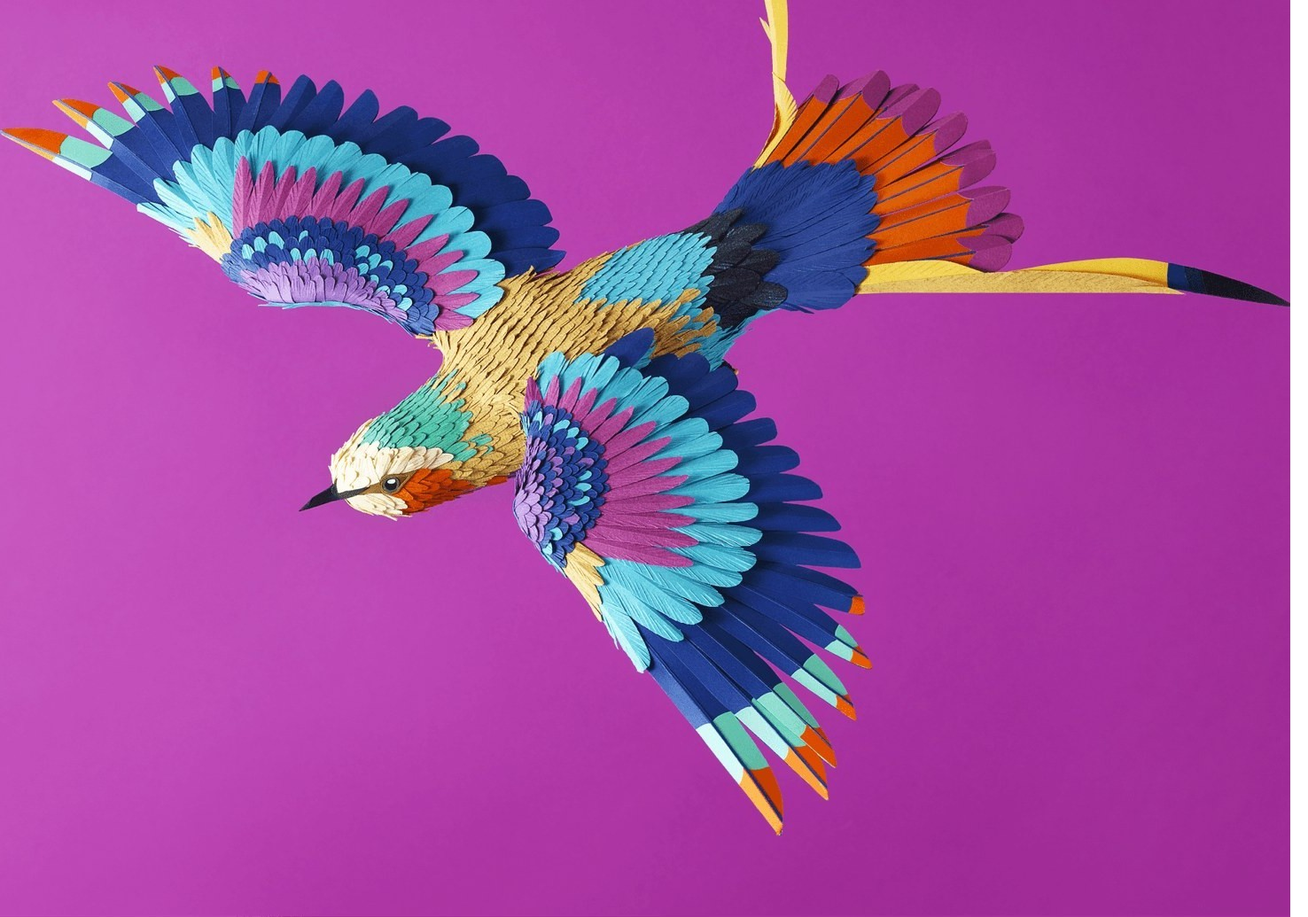
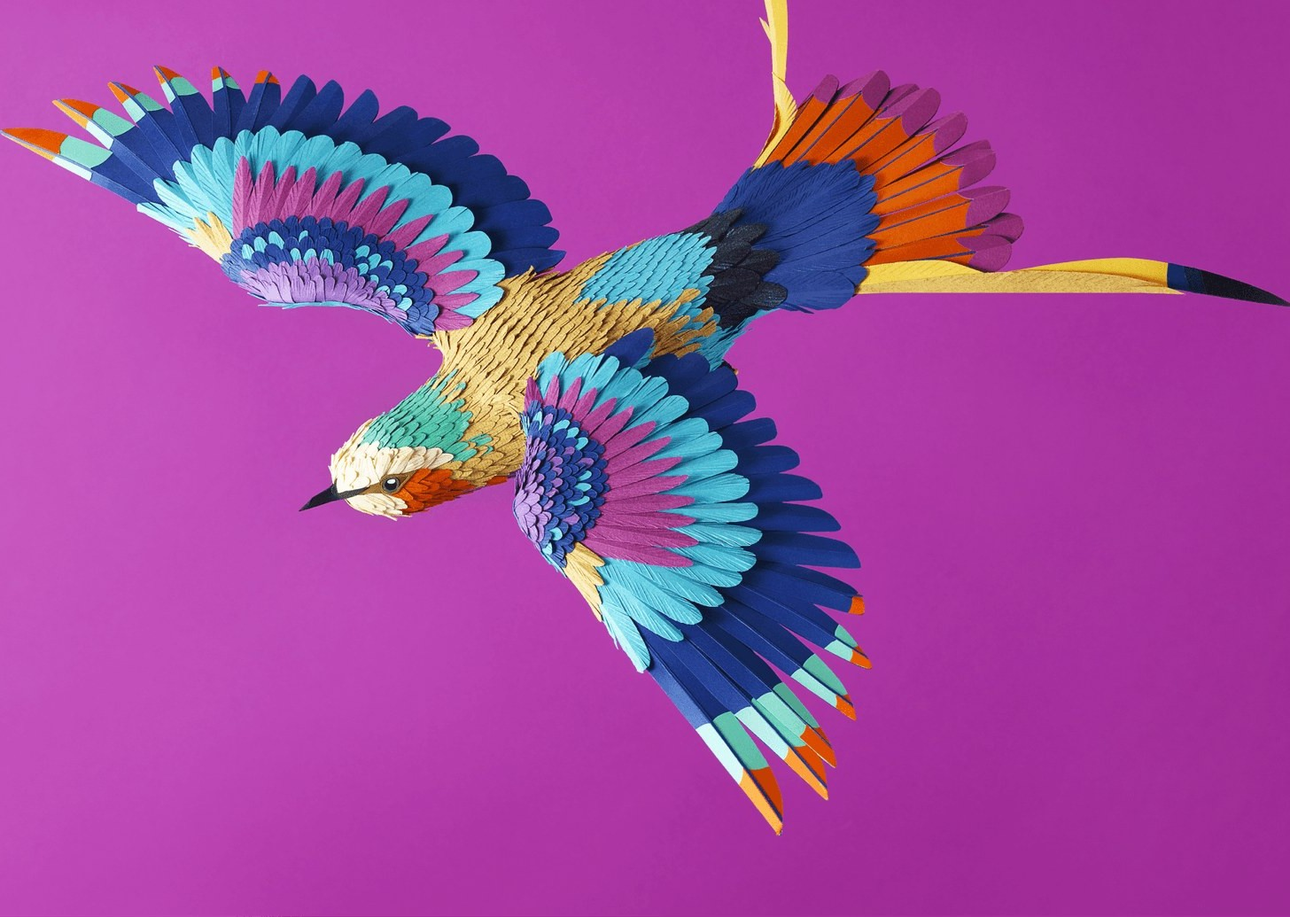
Pages projets : images remises comme avant

Changed region(s): [[0.0309, 0.0, 1.0, 1.0]]

diff --git a/en/projects.html b/en/projects.html
@@ -26,11 +26,11 @@
   <a class="pj rv" href="p-klassic-eyewear" style="--c:#36557a" data-rub="Animation et film"><span class="pj__im"><img src="../img/projets/klassic-eyewear/00_m.jpg" srcset="../img/projets/klassic-eyewear/00_t.jpg 292w, ../img/projets/klassic-eyewear/00_m.jpg 562w, ../img/projets/klassic-eyewear/00.jpg 900w" sizes="(max-width:760px) 100vw, 700px" width="900" height="1600" alt="Klassic Eyewear, Shape of Joy" loading="lazy" decoding="async"></span><span class="pj__t"><b>Klassic Eyewear, Shape of Joy</b><span class="pj__s">Apollo Thomas · Klassic Eyewear</span><span class="mi">Animation and film</span></span></a>
   <a class="pj rv" href="p-burberry-beauty" style="--c:#899dbe" data-rub="Campagnes"><span class="pj__im"><img src="../img/projets/burberry-beauty/01_m.jpg" srcset="../img/projets/burberry-beauty/01_t.jpg 520w, ../img/projets/burberry-beauty/01_m.jpg 1000w, ../img/projets/burberry-beauty/01.jpg 1252w" sizes="(max-width:760px) 100vw, 700px" width="1252" height="1252" alt="Burberry Beauty, Goddess et Hero" loading="lazy" decoding="async"></span><span class="pj__t"><b>Burberry Beauty, Goddess et Hero</b><span class="pj__s">Mathilde Loubes · Burberry Beauty</span><span class="mi">Campaigns</span></span></a>
   <a class="pj rv" href="p-chanel-coco-crush" style="--c:#fee232" data-rub="Animation et film"><span class="pj__im"><img src="../img/projets/chanel-coco-crush/00_m.jpg" srcset="../img/projets/chanel-coco-crush/00_t.jpg 520w, ../img/projets/chanel-coco-crush/00_m.jpg 600w, ../img/projets/chanel-coco-crush/00.jpg 600w" sizes="(max-width:760px) 100vw, 700px" width="600" height="338" alt="Chanel, Coco Crush" loading="lazy" decoding="async"></span><span class="pj__t"><b>Chanel, Coco Crush</b><span class="pj__s">Clément Soulmagnon · Chanel</span><span class="mi">Animation and film</span></span></a>
-  <a class="pj rv" href="p-contes-des-fetes-2023" style="--c:#bf4d82" data-rub="Animation et film"><span class="pj__im"><img src="../img/projets/contes-des-fetes-2023/00_m.jpg" srcset="../img/projets/contes-des-fetes-2023/00_t.jpg 520w, ../img/projets/contes-des-fetes-2023/00_m.jpg 1000w, ../img/projets/contes-des-fetes-2023/00.jpg 1476w" sizes="(max-width:760px) 100vw, 700px" width="1476" height="1035" alt="Trois contes pour les fêtes 2023" loading="lazy" decoding="async"></span><span class="pj__t"><b>Trois contes pour les fêtes 2023</b><span class="pj__s">Lila Poppins · Eddy</span><span class="mi">Animation and film</span></span></a>
+  <a class="pj rv" href="p-contes-des-fetes-2023" style="--c:#bf4d82" data-rub="Animation et film"><span class="pj__im"><img src="../img/projets/contes-des-fetes-2023/00_m.jpg" srcset="../img/projets/contes-des-fetes-2023/00_t.jpg 520w, ../img/projets/contes-des-fetes-2023/00_m.jpg 1000w, ../img/projets/contes-des-fetes-2023/00.jpg 1447w" sizes="(max-width:760px) 100vw, 700px" width="1447" height="1035" alt="Trois contes pour les fêtes 2023" loading="lazy" decoding="async"></span><span class="pj__t"><b>Trois contes pour les fêtes 2023</b><span class="pj__s">Lila Poppins · Eddy</span><span class="mi">Animation and film</span></span></a>
   <a class="pj rv" href="p-apple-store-champs-elysees" style="--c:#fee232" data-rub="Scénographie et installations"><span class="pj__im"><img src="../img/projets/apple-store-champs-elysees/00_m.jpg" srcset="../img/projets/apple-store-champs-elysees/00_t.jpg 346w, ../img/projets/apple-store-champs-elysees/00_m.jpg 665w, ../img/projets/apple-store-champs-elysees/00.jpg 1064w" sizes="(max-width:760px) 100vw, 700px" width="1064" height="1600" alt="Apple Store Champs-Élysées" loading="lazy" decoding="async"></span><span class="pj__t"><b>Apple Store Champs-Élysées</b><span class="pj__s">Clément Soulmagnon · Apple</span><span class="mi">Set design and installations</span></span></a>
   <a class="pj rv" href="p-coty-infinity" style="--c:#bf4d82" data-rub="Scénographie et installations"><span class="pj__im"><img src="../img/projets/coty-infinity/00_m.jpg" srcset="../img/projets/coty-infinity/00_t.jpg 520w, ../img/projets/coty-infinity/00_m.jpg 1000w, ../img/projets/coty-infinity/00.jpg 1476w" sizes="(max-width:760px) 100vw, 700px" width="1476" height="1035" alt="Coty, Infinity" loading="lazy" decoding="async"></span><span class="pj__t"><b>Coty, Infinity</b><span class="pj__s">Lila Poppins · Coty</span><span class="mi">Set design and installations</span></span></a>
   <a class="pj rv" href="p-hermes-china-world" style="--c:#fee232" data-rub="Animation et film"><span class="pj__im"><img src="../img/projets/hermes-china-world/00_m.jpg" srcset="../img/projets/hermes-china-world/00_t.jpg 520w, ../img/projets/hermes-china-world/00_m.jpg 1000w, ../img/projets/hermes-china-world/00.jpg 1280w" sizes="(max-width:760px) 100vw, 700px" width="1280" height="720" alt="Hermès, China World" loading="lazy" decoding="async"></span><span class="pj__t"><b>Hermès, China World</b><span class="pj__s">Clément Soulmagnon · Hermès</span><span class="mi">Animation and film</span></span></a>
-  <a class="pj rv" href="p-aeroports-de-paris-la-parade" style="--c:#bf4d82" data-rub="Scénographie et installations"><span class="pj__im"><img src="../img/projets/aeroports-de-paris-la-parade/00_m.jpg" srcset="../img/projets/aeroports-de-paris-la-parade/00_t.jpg 520w, ../img/projets/aeroports-de-paris-la-parade/00_m.jpg 1000w, ../img/projets/aeroports-de-paris-la-parade/00.jpg 1476w" sizes="(max-width:760px) 100vw, 700px" width="1476" height="1035" alt="Aéroports de Paris, La Parade" loading="lazy" decoding="async"></span><span class="pj__t"><b>Aéroports de Paris, La Parade</b><span class="pj__s">Lila Poppins · Aéroports de Paris</span><span class="mi">Set design and installations</span></span></a>
+  <a class="pj rv" href="p-aeroports-de-paris-la-parade" style="--c:#bf4d82" data-rub="Scénographie et installations"><span class="pj__im"><img src="../img/projets/aeroports-de-paris-la-parade/00_m.jpg" srcset="../img/projets/aeroports-de-paris-la-parade/00_t.jpg 520w, ../img/projets/aeroports-de-paris-la-parade/00_m.jpg 1000w, ../img/projets/aeroports-de-paris-la-parade/00.jpg 1456w" sizes="(max-width:760px) 100vw, 700px" width="1456" height="1035" alt="Aéroports de Paris, La Parade" loading="lazy" decoding="async"></span><span class="pj__t"><b>Aéroports de Paris, La Parade</b><span class="pj__s">Lila Poppins · Aéroports de Paris</span><span class="mi">Set design and installations</span></span></a>
   <a class="pj rv" href="p-marie-claire-vintage-love" style="--c:#bf4d82" data-rub="Édition et presse"><span class="pj__im"><img src="../img/projets/marie-claire-vintage-love/00_m.jpg" srcset="../img/projets/marie-claire-vintage-love/00_t.jpg 520w, ../img/projets/marie-claire-vintage-love/00_m.jpg 1000w, ../img/projets/marie-claire-vintage-love/00.jpg 1476w" sizes="(max-width:760px) 100vw, 700px" width="1476" height="1035" alt="Marie Claire, Vintage love" loading="lazy" decoding="async"></span><span class="pj__t"><b>Marie Claire, Vintage love</b><span class="pj__s">Lila Poppins · Marie Claire</span><span class="mi">Publishing and press</span></span></a>
   <a class="pj rv" href="p-fete-du-cinema-d-animation" style="--c:#6c94a0" data-rub="Affiches et prints"><span class="pj__im"><img src="../img/projets/fete-du-cinema-d-animation/00_m.jpg" srcset="../img/projets/fete-du-cinema-d-animation/00_t.jpg 348w, ../img/projets/fete-du-cinema-d-animation/00_m.jpg 669w, ../img/projets/fete-du-cinema-d-animation/00.jpg 1071w" sizes="(max-width:760px) 100vw, 700px" width="1071" height="1600" alt="Affiche de la 25e Fête du cinéma d'animation" loading="lazy" decoding="async"></span><span class="pj__t"><b>Affiche de la 25e Fête du cinéma d'animation</b><span class="pj__s">Chloé Farr · AFCA</span><span class="mi">Posters and prints</span></span></a>
  </div>

diff --git a/projects.html b/projects.html
@@ -26,11 +26,11 @@
   <a class="pj rv" href="p-klassic-eyewear" style="--c:#36557a" data-rub="Animation et film"><span class="pj__im"><img src="img/projets/klassic-eyewear/00_m.jpg" srcset="img/projets/klassic-eyewear/00_t.jpg 292w, img/projets/klassic-eyewear/00_m.jpg 562w, img/projets/klassic-eyewear/00.jpg 900w" sizes="(max-width:760px) 100vw, 700px" width="900" height="1600" alt="Klassic Eyewear, Shape of Joy" loading="lazy" decoding="async"></span><span class="pj__t"><b>Klassic Eyewear, Shape of Joy</b><span class="pj__s">Apollo Thomas · Klassic Eyewear</span><span class="mi">Animation et film</span></span></a>
   <a class="pj rv" href="p-burberry-beauty" style="--c:#899dbe" data-rub="Campagnes"><span class="pj__im"><img src="img/projets/burberry-beauty/01_m.jpg" srcset="img/projets/burberry-beauty/01_t.jpg 520w, img/projets/burberry-beauty/01_m.jpg 1000w, img/projets/burberry-beauty/01.jpg 1252w" sizes="(max-width:760px) 100vw, 700px" width="1252" height="1252" alt="Burberry Beauty, Goddess et Hero" loading="lazy" decoding="async"></span><span class="pj__t"><b>Burberry Beauty, Goddess et Hero</b><span class="pj__s">Mathilde Loubes · Burberry Beauty</span><span class="mi">Campagnes</span></span></a>
   <a class="pj rv" href="p-chanel-coco-crush" style="--c:#fee232" data-rub="Animation et film"><span class="pj__im"><img src="img/projets/chanel-coco-crush/00_m.jpg" srcset="img/projets/chanel-coco-crush/00_t.jpg 520w, img/projets/chanel-coco-crush/00_m.jpg 600w, img/projets/chanel-coco-crush/00.jpg 600w" sizes="(max-width:760px) 100vw, 700px" width="600" height="338" alt="Chanel, Coco Crush" loading="lazy" decoding="async"></span><span class="pj__t"><b>Chanel, Coco Crush</b><span class="pj__s">Clément Soulmagnon · Chanel</span><span class="mi">Animation et film</span></span></a>
-  <a class="pj rv" href="p-contes-des-fetes-2023" style="--c:#bf4d82" data-rub="Animation et film"><span class="pj__im"><img src="img/projets/contes-des-fetes-2023/00_m.jpg" srcset="img/projets/contes-des-fetes-2023/00_t.jpg 520w, img/projets/contes-des-fetes-2023/00_m.jpg 1000w, img/projets/contes-des-fetes-2023/00.jpg 1476w" sizes="(max-width:760px) 100vw, 700px" width="1476" height="1035" alt="Trois contes pour les fêtes 2023" loading="lazy" decoding="async"></span><span class="pj__t"><b>Trois contes pour les fêtes 2023</b><span class="pj__s">Lila Poppins · Eddy</span><span class="mi">Animation et film</span></span></a>
+  <a class="pj rv" href="p-contes-des-fetes-2023" style="--c:#bf4d82" data-rub="Animation et film"><span class="pj__im"><img src="img/projets/contes-des-fetes-2023/00_m.jpg" srcset="img/projets/contes-des-fetes-2023/00_t.jpg 520w, img/projets/contes-des-fetes-2023/00_m.jpg 1000w, img/projets/contes-des-fetes-2023/00.jpg 1447w" sizes="(max-width:760px) 100vw, 700px" width="1447" height="1035" alt="Trois contes pour les fêtes 2023" loading="lazy" decoding="async"></span><span class="pj__t"><b>Trois contes pour les fêtes 2023</b><span class="pj__s">Lila Poppins · Eddy</span><span class="mi">Animation et film</span></span></a>
   <a class="pj rv" href="p-apple-store-champs-elysees" style="--c:#fee232" data-rub="Scénographie et installations"><span class="pj__im"><img src="img/projets/apple-store-champs-elysees/00_m.jpg" srcset="img/projets/apple-store-champs-elysees/00_t.jpg 346w, img/projets/apple-store-champs-elysees/00_m.jpg 665w, img/projets/apple-store-champs-elysees/00.jpg 1064w" sizes="(max-width:760px) 100vw, 700px" width="1064" height="1600" alt="Apple Store Champs-Élysées" loading="lazy" decoding="async"></span><span class="pj__t"><b>Apple Store Champs-Élysées</b><span class="pj__s">Clément Soulmagnon · Apple</span><span class="mi">Scénographie et installations</span></span></a>
   <a class="pj rv" href="p-coty-infinity" style="--c:#bf4d82" data-rub="Scénographie et installations"><span class="pj__im"><img src="img/projets/coty-infinity/00_m.jpg" srcset="img/projets/coty-infinity/00_t.jpg 520w, img/projets/coty-infinity/00_m.jpg 1000w, img/projets/coty-infinity/00.jpg 1476w" sizes="(max-width:760px) 100vw, 700px" width="1476" height="1035" alt="Coty, Infinity" loading="lazy" decoding="async"></span><span class="pj__t"><b>Coty, Infinity</b><span class="pj__s">Lila Poppins · Coty</span><span class="mi">Scénographie et installations</span></span></a>
   <a class="pj rv" href="p-hermes-china-world" style="--c:#fee232" data-rub="Animation et film"><span class="pj__im"><img src="img/projets/hermes-china-world/00_m.jpg" srcset="img/projets/hermes-china-world/00_t.jpg 520w, img/projets/hermes-china-world/00_m.jpg 1000w, img/projets/hermes-china-world/00.jpg 1280w" sizes="(max-width:760px) 100vw, 700px" width="1280" height="720" alt="Hermès, China World" loading="lazy" decoding="async"></span><span class="pj__t"><b>Hermès, China World</b><span class="pj__s">Clément Soulmagnon · Hermès</span><span class="mi">Animation et film</span></span></a>
-  <a class="pj rv" href="p-aeroports-de-paris-la-parade" style="--c:#bf4d82" data-rub="Scénographie et installations"><span class="pj__im"><img src="img/projets/aeroports-de-paris-la-parade/00_m.jpg" srcset="img/projets/aeroports-de-paris-la-parade/00_t.jpg 520w, img/projets/aeroports-de-paris-la-parade/00_m.jpg 1000w, img/projets/aeroports-de-paris-la-parade/00.jpg 1476w" sizes="(max-width:760px) 100vw, 700px" width="1476" height="1035" alt="Aéroports de Paris, La Parade" loading="lazy" decoding="async"></span><span class="pj__t"><b>Aéroports de Paris, La Parade</b><span class="pj__s">Lila Poppins · Aéroports de Paris</span><span class="mi">Scénographie et installations</span></span></a>
+  <a class="pj rv" href="p-aeroports-de-paris-la-parade" style="--c:#bf4d82" data-rub="Scénographie et installations"><span class="pj__im"><img src="img/projets/aeroports-de-paris-la-parade/00_m.jpg" srcset="img/projets/aeroports-de-paris-la-parade/00_t.jpg 520w, img/projets/aeroports-de-paris-la-parade/00_m.jpg 1000w, img/projets/aeroports-de-paris-la-parade/00.jpg 1456w" sizes="(max-width:760px) 100vw, 700px" width="1456" height="1035" alt="Aéroports de Paris, La Parade" loading="lazy" decoding="async"></span><span class="pj__t"><b>Aéroports de Paris, La Parade</b><span class="pj__s">Lila Poppins · Aéroports de Paris</span><span class="mi">Scénographie et installations</span></span></a>
   <a class="pj rv" href="p-marie-claire-vintage-love" style="--c:#bf4d82" data-rub="Édition et presse"><span class="pj__im"><img src="img/projets/marie-claire-vintage-love/00_m.jpg" srcset="img/projets/marie-claire-vintage-love/00_t.jpg 520w, img/projets/marie-claire-vintage-love/00_m.jpg 1000w, img/projets/marie-claire-vintage-love/00.jpg 1476w" sizes="(max-width:760px) 100vw, 700px" width="1476" height="1035" alt="Marie Claire, Vintage love" loading="lazy" decoding="async"></span><span class="pj__t"><b>Marie Claire, Vintage love</b><span class="pj__s">Lila Poppins · Marie Claire</span><span class="mi">Édition et presse</span></span></a>
   <a class="pj rv" href="p-fete-du-cinema-d-animation" style="--c:#6c94a0" data-rub="Affiches et prints"><span class="pj__im"><img src="img/projets/fete-du-cinema-d-animation/00_m.jpg" srcset="img/projets/fete-du-cinema-d-animation/00_t.jpg 348w, img/projets/fete-du-cinema-d-animation/00_m.jpg 669w, img/projets/fete-du-cinema-d-animation/00.jpg 1071w" sizes="(max-width:760px) 100vw, 700px" width="1071" height="1600" alt="Affiche de la 25e Fête du cinéma d'animation" loading="lazy" decoding="async"></span><span class="pj__t"><b>Affiche de la 25e Fête du cinéma d'animation</b><span class="pj__s">Chloé Farr · AFCA</span><span class="mi">Affiches et prints</span></span></a>
  </div>

diff --git a/en/p-aeroports-de-paris-la-parade.html b/en/p-aeroports-de-paris-la-parade.html
@@ -35,8 +35,8 @@
  </div>
  <div class="mosaic">
  <div class="mrow rv">
-  <figure class="m m--l" style="--r:1.426" data-zoom="../img/projets/aeroports-de-paris-la-parade/00.jpg"><img src="../img/projets/aeroports-de-paris-la-parade/00_m.jpg" srcset="../img/projets/aeroports-de-paris-la-parade/00_t.jpg 520w, ../img/projets/aeroports-de-paris-la-parade/00_m.jpg 1000w, ../img/projets/aeroports-de-paris-la-parade/00.jpg 1476w" sizes="(max-width:760px) 100vw, 666px" width="1476" height="1035" alt="Aéroports de Paris, La Parade" loading="lazy" decoding="async"></figure>
-  <figure class="m m--l" style="--r:1.546" data-zoom="../img/projets/aeroports-de-paris-la-parade/01.jpg"><img src="../img/projets/aeroports-de-paris-la-parade/01_m.jpg" srcset="../img/projets/aeroports-de-paris-la-parade/01_t.jpg 520w, ../img/projets/aeroports-de-paris-la-parade/01_m.jpg 1000w, ../img/projets/aeroports-de-paris-la-parade/01.jpg 1600w" sizes="(max-width:760px) 100vw, 721px" width="1600" height="1035" alt="Aéroports de Paris, La Parade" loading="lazy" decoding="async"></figure>
+  <figure class="m m--l" style="--r:1.407" data-zoom="../img/projets/aeroports-de-paris-la-parade/00.jpg"><img src="../img/projets/aeroports-de-paris-la-parade/00_m.jpg" srcset="../img/projets/aeroports-de-paris-la-parade/00_t.jpg 520w, ../img/projets/aeroports-de-paris-la-parade/00_m.jpg 1000w, ../img/projets/aeroports-de-paris-la-parade/00.jpg 1456w" sizes="(max-width:760px) 100vw, 661px" width="1456" height="1035" alt="Aéroports de Paris, La Parade" loading="lazy" decoding="async"></figure>
+  <figure class="m m--l" style="--r:1.546" data-zoom="../img/projets/aeroports-de-paris-la-parade/01.jpg"><img src="../img/projets/aeroports-de-paris-la-parade/01_m.jpg" srcset="../img/projets/aeroports-de-paris-la-parade/01_t.jpg 520w, ../img/projets/aeroports-de-paris-la-parade/01_m.jpg 1000w, ../img/projets/aeroports-de-paris-la-parade/01.jpg 1600w" sizes="(max-width:760px) 100vw, 726px" width="1600" height="1035" alt="Aéroports de Paris, La Parade" loading="lazy" decoding="async"></figure>
  </div>
  <div class="mrow rv">
   <figure class="m m--l" style="--r:1.427" data-zoom="../img/projets/aeroports-de-paris-la-parade/02.jpg"><img src="../img/projets/aeroports-de-paris-la-parade/02_m.jpg" srcset="../img/projets/aeroports-de-paris-la-parade/02_t.jpg 520w, ../img/projets/aeroports-de-paris-la-parade/02_m.jpg 1000w, ../img/projets/aeroports-de-paris-la-parade/02.jpg 1477w" sizes="(max-width:760px) 100vw, 694px" width="1477" height="1035" alt="Aéroports de Paris, La Parade" loading="lazy" decoding="async"></figure>
@@ -51,8 +51,8 @@
   <figure class="m m--l" style="--r:1.546" data-zoom="../img/projets/aeroports-de-paris-la-parade/07.jpg"><img src="../img/projets/aeroports-de-paris-la-parade/07_m.jpg" srcset="../img/projets/aeroports-de-paris-la-parade/07_t.jpg 520w, ../img/projets/aeroports-de-paris-la-parade/07_m.jpg 1000w, ../img/projets/aeroports-de-paris-la-parade/07.jpg 1600w" sizes="(max-width:760px) 100vw, 721px" width="1600" height="1035" alt="Aéroports de Paris, La Parade" loading="lazy" decoding="async"></figure>
  </div>
  <div class="mrow rv">
-  <figure class="m m--l" style="--r:1.426" data-zoom="../img/projets/aeroports-de-paris-la-parade/08.jpg"><img src="../img/projets/aeroports-de-paris-la-parade/08_m.jpg" srcset="../img/projets/aeroports-de-paris-la-parade/08_t.jpg 520w, ../img/projets/aeroports-de-paris-la-parade/08_m.jpg 1000w, ../img/projets/aeroports-de-paris-la-parade/08.jpg 1476w" sizes="(max-width:760px) 100vw, 694px" width="1476" height="1035" alt="Aéroports de Paris, La Parade" loading="lazy" decoding="async"></figure>
-  <figure class="m m--l" style="--r:1.426" data-zoom="../img/projets/aeroports-de-paris-la-parade/09.jpg"><img src="../img/projets/aeroports-de-paris-la-parade/09_m.jpg" srcset="../img/projets/aeroports-de-paris-la-parade/09_t.jpg 520w, ../img/projets/aeroports-de-paris-la-parade/09_m.jpg 1000w, ../img/projets/aeroports-de-paris-la-parade/09.jpg 1476w" sizes="(max-width:760px) 100vw, 694px" width="1476" height="1035" alt="Aéroports de Paris, La Parade" loading="lazy" decoding="async"></figure>
+  <figure class="m m--l" style="--r:1.426" data-zoom="../img/projets/aeroports-de-paris-la-parade/08.jpg"><img src="../img/projets/aeroports-de-paris-la-parade/08_m.jpg" srcset="../img/projets/aeroports-de-paris-la-parade/08_t.jpg 520w, ../img/projets/aeroports-de-paris-la-parade/08_m.jpg 1000w, ../img/projets/aeroports-de-paris-la-parade/08.jpg 1476w" sizes="(max-width:760px) 100vw, 728px" width="1476" height="1035" alt="Aéroports de Paris, La Parade" loading="lazy" decoding="async"></figure>
+  <figure class="m" style="--r:1.291" data-zoom="../img/projets/aeroports-de-paris-la-parade/09.jpg"><img src="../img/projets/aeroports-de-paris-la-parade/09_m.jpg" srcset="../img/projets/aeroports-de-paris-la-parade/09_t.jpg 520w, ../img/projets/aeroports-de-paris-la-parade/09_m.jpg 1000w, ../img/projets/aeroports-de-paris-la-parade/09.jpg 1336w" sizes="(max-width:760px) 100vw, 659px" width="1336" height="1035" alt="Aéroports de Paris, La Parade" loading="lazy" decoding="async"></figure>
  </div>
  </div>
 </div>

diff --git a/p-aeroports-de-paris-la-parade.html b/p-aeroports-de-paris-la-parade.html
@@ -35,8 +35,8 @@
  </div>
  <div class="mosaic">
  <div class="mrow rv">
-  <figure class="m m--l" style="--r:1.426" data-zoom="img/projets/aeroports-de-paris-la-parade/00.jpg"><img src="img/projets/aeroports-de-paris-la-parade/00_m.jpg" srcset="img/projets/aeroports-de-paris-la-parade/00_t.jpg 520w, img/projets/aeroports-de-paris-la-parade/00_m.jpg 1000w, img/projets/aeroports-de-paris-la-parade/00.jpg 1476w" sizes="(max-width:760px) 100vw, 666px" width="1476" height="1035" alt="Aéroports de Paris, La Parade" loading="lazy" decoding="async"></figure>
-  <figure class="m m--l" style="--r:1.546" data-zoom="img/projets/aeroports-de-paris-la-parade/01.jpg"><img src="img/projets/aeroports-de-paris-la-parade/01_m.jpg" srcset="img/projets/aeroports-de-paris-la-parade/01_t.jpg 520w, img/projets/aeroports-de-paris-la-parade/01_m.jpg 1000w, img/projets/aeroports-de-paris-la-parade/01.jpg 1600w" sizes="(max-width:760px) 100vw, 721px" width="1600" height="1035" alt="Aéroports de Paris, La Parade" loading="lazy" decoding="async"></figure>
+  <figure class="m m--l" style="--r:1.407" data-zoom="img/projets/aeroports-de-paris-la-parade/00.jpg"><img src="img/projets/aeroports-de-paris-la-parade/00_m.jpg" srcset="img/projets/aeroports-de-paris-la-parade/00_t.jpg 520w, img/projets/aeroports-de-paris-la-parade/00_m.jpg 1000w, img/projets/aeroports-de-paris-la-parade/00.jpg 1456w" sizes="(max-width:760px) 100vw, 661px" width="1456" height="1035" alt="Aéroports de Paris, La Parade" loading="lazy" decoding="async"></figure>
+  <figure class="m m--l" style="--r:1.546" data-zoom="img/projets/aeroports-de-paris-la-parade/01.jpg"><img src="img/projets/aeroports-de-paris-la-parade/01_m.jpg" srcset="img/projets/aeroports-de-paris-la-parade/01_t.jpg 520w, img/projets/aeroports-de-paris-la-parade/01_m.jpg 1000w, img/projets/aeroports-de-paris-la-parade/01.jpg 1600w" sizes="(max-width:760px) 100vw, 726px" width="1600" height="1035" alt="Aéroports de Paris, La Parade" loading="lazy" decoding="async"></figure>
  </div>
  <div class="mrow rv">
   <figure class="m m--l" style="--r:1.427" data-zoom="img/projets/aeroports-de-paris-la-parade/02.jpg"><img src="img/projets/aeroports-de-paris-la-parade/02_m.jpg" srcset="img/projets/aeroports-de-paris-la-parade/02_t.jpg 520w, img/projets/aeroports-de-paris-la-parade/02_m.jpg 1000w, img/projets/aeroports-de-paris-la-parade/02.jpg 1477w" sizes="(max-width:760px) 100vw, 694px" width="1477" height="1035" alt="Aéroports de Paris, La Parade" loading="lazy" decoding="async"></figure>
@@ -51,8 +51,8 @@
   <figure class="m m--l" style="--r:1.546" data-zoom="img/projets/aeroports-de-paris-la-parade/07.jpg"><img src="img/projets/aeroports-de-paris-la-parade/07_m.jpg" srcset="img/projets/aeroports-de-paris-la-parade/07_t.jpg 520w, img/projets/aeroports-de-paris-la-parade/07_m.jpg 1000w, img/projets/aeroports-de-paris-la-parade/07.jpg 1600w" sizes="(max-width:760px) 100vw, 721px" width="1600" height="1035" alt="Aéroports de Paris, La Parade" loading="lazy" decoding="async"></figure>
  </div>
  <div class="mrow rv">
-  <figure class="m m--l" style="--r:1.426" data-zoom="img/projets/aeroports-de-paris-la-parade/08.jpg"><img src="img/projets/aeroports-de-paris-la-parade/08_m.jpg" srcset="img/projets/aeroports-de-paris-la-parade/08_t.jpg 520w, img/projets/aeroports-de-paris-la-parade/08_m.jpg 1000w, img/projets/aeroports-de-paris-la-parade/08.jpg 1476w" sizes="(max-width:760px) 100vw, 694px" width="1476" height="1035" alt="Aéroports de Paris, La Parade" loading="lazy" decoding="async"></figure>
-  <figure class="m m--l" style="--r:1.426" data-zoom="img/projets/aeroports-de-paris-la-parade/09.jpg"><img src="img/projets/aeroports-de-paris-la-parade/09_m.jpg" srcset="img/projets/aeroports-de-paris-la-parade/09_t.jpg 520w, img/projets/aeroports-de-paris-la-parade/09_m.jpg 1000w, img/projets/aeroports-de-paris-la-parade/09.jpg 1476w" sizes="(max-width:760px) 100vw, 694px" width="1476" height="1035" alt="Aéroports de Paris, La Parade" loading="lazy" decoding="async"></figure>
+  <figure class="m m--l" style="--r:1.426" data-zoom="img/projets/aeroports-de-paris-la-parade/08.jpg"><img src="img/projets/aeroports-de-paris-la-parade/08_m.jpg" srcset="img/projets/aeroports-de-paris-la-parade/08_t.jpg 520w, img/projets/aeroports-de-paris-la-parade/08_m.jpg 1000w, img/projets/aeroports-de-paris-la-parade/08.jpg 1476w" sizes="(max-width:760px) 100vw, 728px" width="1476" height="1035" alt="Aéroports de Paris, La Parade" loading="lazy" decoding="async"></figure>
+  <figure class="m" style="--r:1.291" data-zoom="img/projets/aeroports-de-paris-la-parade/09.jpg"><img src="img/projets/aeroports-de-paris-la-parade/09_m.jpg" srcset="img/projets/aeroports-de-paris-la-parade/09_t.jpg 520w, img/projets/aeroports-de-paris-la-parade/09_m.jpg 1000w, img/projets/aeroports-de-paris-la-parade/09.jpg 1336w" sizes="(max-width:760px) 100vw, 659px" width="1336" height="1035" alt="Aéroports de Paris, La Parade" loading="lazy" decoding="async"></figure>
  </div>
  </div>
 </div>

diff --git a/en/a-lila-poppins.html b/en/a-lila-poppins.html
@@ -42,12 +42,12 @@
 <div class="thead"><b>Selection</b><span></span><span class="c">Lila Poppins</span></div>
 <div class="mosaic">
  <div class="mrow rv">
-  <a class="m m--pj m--l" style="--r:1.426" href="p-contes-des-fetes-2023"><img src="../img/projets/contes-des-fetes-2023/00_m.jpg" srcset="../img/projets/contes-des-fetes-2023/00_t.jpg 520w, ../img/projets/contes-des-fetes-2023/00_m.jpg 1000w, ../img/projets/contes-des-fetes-2023/00.jpg 1476w" sizes="(max-width:760px) 100vw, 700px" width="1476" height="1035" alt="Illustration by Lila Poppins" loading="lazy" decoding="async"><span class="m__cap"><span class="mi">Project</span><b>Trois contes pour les fêtes 2023</b></span></a>
-  <a class="m m--pj m--l" style="--r:1.426" href="p-coty-infinity"><img src="../img/projets/coty-infinity/00_m.jpg" srcset="../img/projets/coty-infinity/00_t.jpg 520w, ../img/projets/coty-infinity/00_m.jpg 1000w, ../img/projets/coty-infinity/00.jpg 1476w" sizes="(max-width:760px) 100vw, 700px" width="1476" height="1035" alt="Illustration by Lila Poppins" loading="lazy" decoding="async"><span class="m__cap"><span class="mi">Project</span><b>Coty, Infinity</b></span></a>
+  <a class="m m--pj m--l" style="--r:1.398" href="p-contes-des-fetes-2023"><img src="../img/projets/contes-des-fetes-2023/00_m.jpg" srcset="../img/projets/contes-des-fetes-2023/00_t.jpg 520w, ../img/projets/contes-des-fetes-2023/00_m.jpg 1000w, ../img/projets/contes-des-fetes-2023/00.jpg 1447w" sizes="(max-width:760px) 100vw, 693px" width="1447" height="1035" alt="Illustration by Lila Poppins" loading="lazy" decoding="async"><span class="m__cap"><span class="mi">Project</span><b>Trois contes pour les fêtes 2023</b></span></a>
+  <a class="m m--pj m--l" style="--r:1.426" href="p-coty-infinity"><img src="../img/projets/coty-infinity/00_m.jpg" srcset="../img/projets/coty-infinity/00_t.jpg 520w, ../img/projets/coty-infinity/00_m.jpg 1000w, ../img/projets/coty-infinity/00.jpg 1476w" sizes="(max-width:760px) 100vw, 706px" width="1476" height="1035" alt="Illustration by Lila Poppins" loading="lazy" decoding="async"><span class="m__cap"><span class="mi">Project</span><b>Coty, Infinity</b></span></a>
  </div>
  <div class="mrow rv">
-  <a class="m m--pj m--l" style="--r:1.426" href="p-aeroports-de-paris-la-parade"><img src="../img/projets/aeroports-de-paris-la-parade/00_m.jpg" srcset="../img/projets/aeroports-de-paris-la-parade/00_t.jpg 520w, ../img/projets/aeroports-de-paris-la-parade/00_m.jpg 1000w, ../img/projets/aeroports-de-paris-la-parade/00.jpg 1476w" sizes="(max-width:760px) 100vw, 700px" width="1476" height="1035" alt="Illustration by Lila Poppins" loading="lazy" decoding="async"><span class="m__cap"><span class="mi">Project</span><b>Aéroports de Paris, La Parade</b></span></a>
-  <a class="m m--pj m--l" style="--r:1.426" href="p-marie-claire-vintage-love"><img src="../img/projets/marie-claire-vintage-love/00_m.jpg" srcset="../img/projets/marie-claire-vintage-love/00_t.jpg 520w, ../img/projets/marie-claire-vintage-love/00_m.jpg 1000w, ../img/projets/marie-claire-vintage-love/00.jpg 1476w" sizes="(max-width:760px) 100vw, 700px" width="1476" height="1035" alt="Illustration by Lila Poppins" loading="lazy" decoding="async"><span class="m__cap"><span class="mi">Project</span><b>Marie Claire, Vintage love</b></span></a>
+  <a class="m m--pj m--l" style="--r:1.407" href="p-aeroports-de-paris-la-parade"><img src="../img/projets/aeroports-de-paris-la-parade/00_m.jpg" srcset="../img/projets/aeroports-de-paris-la-parade/00_t.jpg 520w, ../img/projets/aeroports-de-paris-la-parade/00_m.jpg 1000w, ../img/projets/aeroports-de-paris-la-parade/00.jpg 1456w" sizes="(max-width:760px) 100vw, 695px" width="1456" height="1035" alt="Illustration by Lila Poppins" loading="lazy" decoding="async"><span class="m__cap"><span class="mi">Project</span><b>Aéroports de Paris, La Parade</b></span></a>
+  <a class="m m--pj m--l" style="--r:1.426" href="p-marie-claire-vintage-love"><img src="../img/projets/marie-claire-vintage-love/00_m.jpg" srcset="../img/projets/marie-claire-vintage-love/00_t.jpg 520w, ../img/projets/marie-claire-vintage-love/00_m.jpg 1000w, ../img/projets/marie-claire-vintage-love/00.jpg 1476w" sizes="(max-width:760px) 100vw, 704px" width="1476" height="1035" alt="Illustration by Lila Poppins" loading="lazy" decoding="async"><span class="m__cap"><span class="mi">Project</span><b>Marie Claire, Vintage love</b></span></a>
  </div>
  <div class="mrow rv">
   <figure class="m" style="--r:0.959" data-zoom="../img/lila-poppins/03.jpg"><img src="../img/lila-poppins/03_m.jpg" srcset="../img/lila-poppins/03_t.jpg 499w, ../img/lila-poppins/03_m.jpg 959w, ../img/lila-poppins/03.jpg 1338w" sizes="(max-width:760px) 100vw, 379px" width="1338" height="1395" alt="Illustration by Lila Poppins" loading="lazy" decoding="async"></figure>

diff --git a/a-lila-poppins.html b/a-lila-poppins.html
@@ -42,12 +42,12 @@
 <div class="thead"><b>Sélection</b><span></span><span class="c">Lila Poppins</span></div>
 <div class="mosaic">
  <div class="mrow rv">
-  <a class="m m--pj m--l" style="--r:1.426" href="p-contes-des-fetes-2023"><img src="img/projets/contes-des-fetes-2023/00_m.jpg" srcset="img/projets/contes-des-fetes-2023/00_t.jpg 520w, img/projets/contes-des-fetes-2023/00_m.jpg 1000w, img/projets/contes-des-fetes-2023/00.jpg 1476w" sizes="(max-width:760px) 100vw, 700px" width="1476" height="1035" alt="Illustration de Lila Poppins" loading="lazy" decoding="async"><span class="m__cap"><span class="mi">Projet</span><b>Trois contes pour les fêtes 2023</b></span></a>
-  <a class="m m--pj m--l" style="--r:1.426" href="p-coty-infinity"><img src="img/projets/coty-infinity/00_m.jpg" srcset="img/projets/coty-infinity/00_t.jpg 520w, img/projets/coty-infinity/00_m.jpg 1000w, img/projets/coty-infinity/00.jpg 1476w" sizes="(max-width:760px) 100vw, 700px" width="1476" height="1035" alt="Illustration de Lila Poppins" loading="lazy" decoding="async"><span class="m__cap"><span class="mi">Projet</span><b>Coty, Infinity</b></span></a>
+  <a class="m m--pj m--l" style="--r:1.398" href="p-contes-des-fetes-2023"><img src="img/projets/contes-des-fetes-2023/00_m.jpg" srcset="img/projets/contes-des-fetes-2023/00_t.jpg 520w, img/projets/contes-des-fetes-2023/00_m.jpg 1000w, img/projets/contes-des-fetes-2023/00.jpg 1447w" sizes="(max-width:760px) 100vw, 693px" width="1447" height="1035" alt="Illustration de Lila Poppins" loading="lazy" decoding="async"><span class="m__cap"><span class="mi">Projet</span><b>Trois contes pour les fêtes 2023</b></span></a>
+  <a class="m m--pj m--l" style="--r:1.426" href="p-coty-infinity"><img src="img/projets/coty-infinity/00_m.jpg" srcset="img/projets/coty-infinity/00_t.jpg 520w, img/projets/coty-infinity/00_m.jpg 1000w, img/projets/coty-infinity/00.jpg 1476w" sizes="(max-width:760px) 100vw, 706px" width="1476" height="1035" alt="Illustration de Lila Poppins" loading="lazy" decoding="async"><span class="m__cap"><span class="mi">Projet</span><b>Coty, Infinity</b></span></a>
  </div>
  <div class="mrow rv">
-  <a class="m m--pj m--l" style="--r:1.426" href="p-aeroports-de-paris-la-parade"><img src="img/projets/aeroports-de-paris-la-parade/00_m.jpg" srcset="img/projets/aeroports-de-paris-la-parade/00_t.jpg 520w, img/projets/aeroports-de-paris-la-parade/00_m.jpg 1000w, img/projets/aeroports-de-paris-la-parade/00.jpg 1476w" sizes="(max-width:760px) 100vw, 700px" width="1476" height="1035" alt="Illustration de Lila Poppins" loading="lazy" decoding="async"><span class="m__cap"><span class="mi">Projet</span><b>Aéroports de Paris, La Parade</b></span></a>
-  <a class="m m--pj m--l" style="--r:1.426" href="p-marie-claire-vintage-love"><img src="img/projets/marie-claire-vintage-love/00_m.jpg" srcset="img/projets/marie-claire-vintage-love/00_t.jpg 520w, img/projets/marie-claire-vintage-love/00_m.jpg 1000w, img/projets/marie-claire-vintage-love/00.jpg 1476w" sizes="(max-width:760px) 100vw, 700px" width="1476" height="1035" alt="Illustration de Lila Poppins" loading="lazy" decoding="async"><span class="m__cap"><span class="mi">Projet</span><b>Marie Claire, Vintage love</b></span></a>
+  <a class="m m--pj m--l" style="--r:1.407" href="p-aeroports-de-paris-la-parade"><img src="img/projets/aeroports-de-paris-la-parade/00_m.jpg" srcset="img/projets/aeroports-de-paris-la-parade/00_t.jpg 520w, img/projets/aeroports-de-paris-la-parade/00_m.jpg 1000w, img/projets/aeroports-de-paris-la-parade/00.jpg 1456w" sizes="(max-width:760px) 100vw, 695px" width="1456" height="1035" alt="Illustration de Lila Poppins" loading="lazy" decoding="async"><span class="m__cap"><span class="mi">Projet</span><b>Aéroports de Paris, La Parade</b></span></a>
+  <a class="m m--pj m--l" style="--r:1.426" href="p-marie-claire-vintage-love"><img src="img/projets/marie-claire-vintage-love/00_m.jpg" srcset="img/projets/marie-claire-vintage-love/00_t.jpg 520w, img/projets/marie-claire-vintage-love/00_m.jpg 1000w, img/projets/marie-claire-vintage-love/00.jpg 1476w" sizes="(max-width:760px) 100vw, 704px" width="1476" height="1035" alt="Illustration de Lila Poppins" loading="lazy" decoding="async"><span class="m__cap"><span class="mi">Projet</span><b>Marie Claire, Vintage love</b></span></a>
  </div>
  <div class="mrow rv">
   <figure class="m" style="--r:0.959" data-zoom="img/lila-poppins/03.jpg"><img src="img/lila-poppins/03_m.jpg" srcset="img/lila-poppins/03_t.jpg 499w, img/lila-poppins/03_m.jpg 959w, img/lila-poppins/03.jpg 1338w" sizes="(max-width:760px) 100vw, 379px" width="1338" height="1395" alt="Illustration de Lila Poppins" loading="lazy" decoding="async"></figure>

diff --git a/en/p-contes-des-fetes-2023.html b/en/p-contes-des-fetes-2023.html
@@ -35,8 +35,8 @@
  </div>
  <div class="mosaic">
  <div class="mrow rv">
-  <figure class="m m--l" style="--r:1.426" data-zoom="../img/projets/contes-des-fetes-2023/00.jpg"><img src="../img/projets/contes-des-fetes-2023/00_m.jpg" srcset="../img/projets/contes-des-fetes-2023/00_t.jpg 520w, ../img/projets/contes-des-fetes-2023/00_m.jpg 1000w, ../img/projets/contes-des-fetes-2023/00.jpg 1476w" sizes="(max-width:760px) 100vw, 904px" width="1476" height="1035" alt="Trois contes pour les fêtes 2023" loading="lazy" decoding="async"></figure>
-  <figure class="m" style="--r:0.762" data-zoom="../img/projets/contes-des-fetes-2023/01.jpg"><img src="../img/projets/contes-des-fetes-2023/01_m.jpg" srcset="../img/projets/contes-des-fetes-2023/01_t.jpg 396w, ../img/projets/contes-des-fetes-2023/01_m.jpg 762w, ../img/projets/contes-des-fetes-2023/01.jpg 1080w" sizes="(max-width:760px) 100vw, 483px" width="1080" height="1417" alt="Trois contes pour les fêtes 2023" loading="lazy" decoding="async"></figure>
+  <figure class="m m--l" style="--r:1.398" data-zoom="../img/projets/contes-des-fetes-2023/00.jpg"><img src="../img/projets/contes-des-fetes-2023/00_m.jpg" srcset="../img/projets/contes-des-fetes-2023/00_t.jpg 520w, ../img/projets/contes-des-fetes-2023/00_m.jpg 1000w, ../img/projets/contes-des-fetes-2023/00.jpg 1447w" sizes="(max-width:760px) 100vw, 898px" width="1447" height="1035" alt="Trois contes pour les fêtes 2023" loading="lazy" decoding="async"></figure>
+  <figure class="m" style="--r:0.762" data-zoom="../img/projets/contes-des-fetes-2023/01.jpg"><img src="../img/projets/contes-des-fetes-2023/01_m.jpg" srcset="../img/projets/contes-des-fetes-2023/01_t.jpg 396w, ../img/projets/contes-des-fetes-2023/01_m.jpg 762w, ../img/projets/contes-des-fetes-2023/01.jpg 1080w" sizes="(max-width:760px) 100vw, 489px" width="1080" height="1417" alt="Trois contes pour les fêtes 2023" loading="lazy" decoding="async"></figure>
  </div>
  <div class="mrow rv">
   <figure class="m m--l" style="--r:1.426" data-zoom="../img/projets/contes-des-fetes-2023/02.jpg"><img src="../img/projets/contes-des-fetes-2023/02_m.jpg" srcset="../img/projets/contes-des-fetes-2023/02_t.jpg 520w, ../img/projets/contes-des-fetes-2023/02_m.jpg 1000w, ../img/projets/contes-des-fetes-2023/02.jpg 1476w" sizes="(max-width:760px) 100vw, 888px" width="1476" height="1035" alt="Trois contes pour les fêtes 2023" loading="lazy" decoding="async"></figure>

diff --git a/p-contes-des-fetes-2023.html b/p-contes-des-fetes-2023.html
@@ -35,8 +35,8 @@
  </div>
  <div class="mosaic">
  <div class="mrow rv">
-  <figure class="m m--l" style="--r:1.426" data-zoom="img/projets/contes-des-fetes-2023/00.jpg"><img src="img/projets/contes-des-fetes-2023/00_m.jpg" srcset="img/projets/contes-des-fetes-2023/00_t.jpg 520w, img/projets/contes-des-fetes-2023/00_m.jpg 1000w, img/projets/contes-des-fetes-2023/00.jpg 1476w" sizes="(max-width:760px) 100vw, 904px" width="1476" height="1035" alt="Trois contes pour les fêtes 2023" loading="lazy" decoding="async"></figure>
-  <figure class="m" style="--r:0.762" data-zoom="img/projets/contes-des-fetes-2023/01.jpg"><img src="img/projets/contes-des-fetes-2023/01_m.jpg" srcset="img/projets/contes-des-fetes-2023/01_t.jpg 396w, img/projets/contes-des-fetes-2023/01_m.jpg 762w, img/projets/contes-des-fetes-2023/01.jpg 1080w" sizes="(max-width:760px) 100vw, 483px" width="1080" height="1417" alt="Trois contes pour les fêtes 2023" loading="lazy" decoding="async"></figure>
+  <figure class="m m--l" style="--r:1.398" data-zoom="img/projets/contes-des-fetes-2023/00.jpg"><img src="img/projets/contes-des-fetes-2023/00_m.jpg" srcset="img/projets/contes-des-fetes-2023/00_t.jpg 520w, img/projets/contes-des-fetes-2023/00_m.jpg 1000w, img/projets/contes-des-fetes-2023/00.jpg 1447w" sizes="(max-width:760px) 100vw, 898px" width="1447" height="1035" alt="Trois contes pour les fêtes 2023" loading="lazy" decoding="async"></figure>
+  <figure class="m" style="--r:0.762" data-zoom="img/projets/contes-des-fetes-2023/01.jpg"><img src="img/projets/contes-des-fetes-2023/01_m.jpg" srcset="img/projets/contes-des-fetes-2023/01_t.jpg 396w, img/projets/contes-des-fetes-2023/01_m.jpg 762w, img/projets/contes-des-fetes-2023/01.jpg 1080w" sizes="(max-width:760px) 100vw, 489px" width="1080" height="1417" alt="Trois contes pour les fêtes 2023" loading="lazy" decoding="async"></figure>
  </div>
  <div class="mrow rv">
   <figure class="m m--l" style="--r:1.426" data-zoom="img/projets/contes-des-fetes-2023/02.jpg"><img src="img/projets/contes-des-fetes-2023/02_m.jpg" srcset="img/projets/contes-des-fetes-2023/02_t.jpg 520w, img/projets/contes-des-fetes-2023/02_m.jpg 1000w, img/projets/contes-des-fetes-2023/02.jpg 1476w" sizes="(max-width:760px) 100vw, 888px" width="1476" height="1035" alt="Trois contes pour les fêtes 2023" loading="lazy" decoding="async"></figure>
